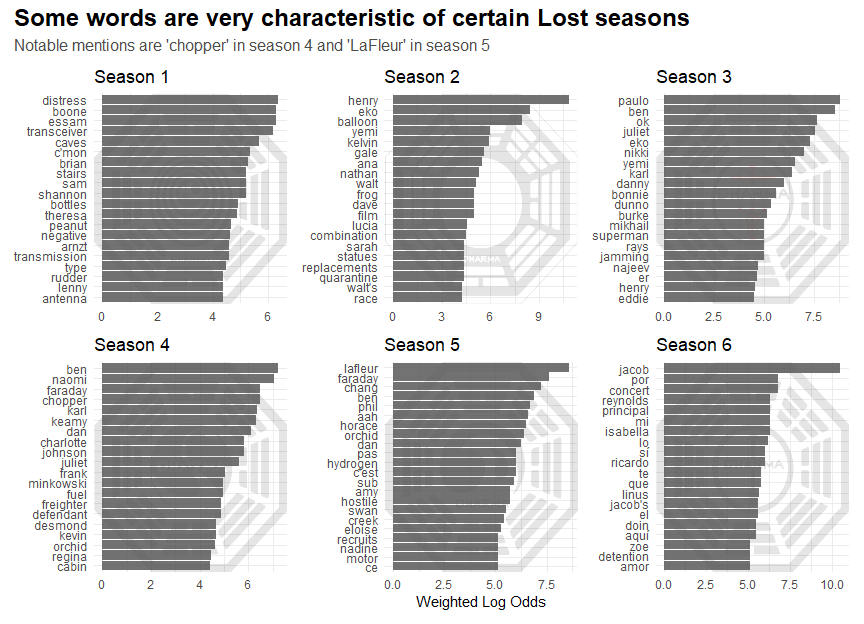
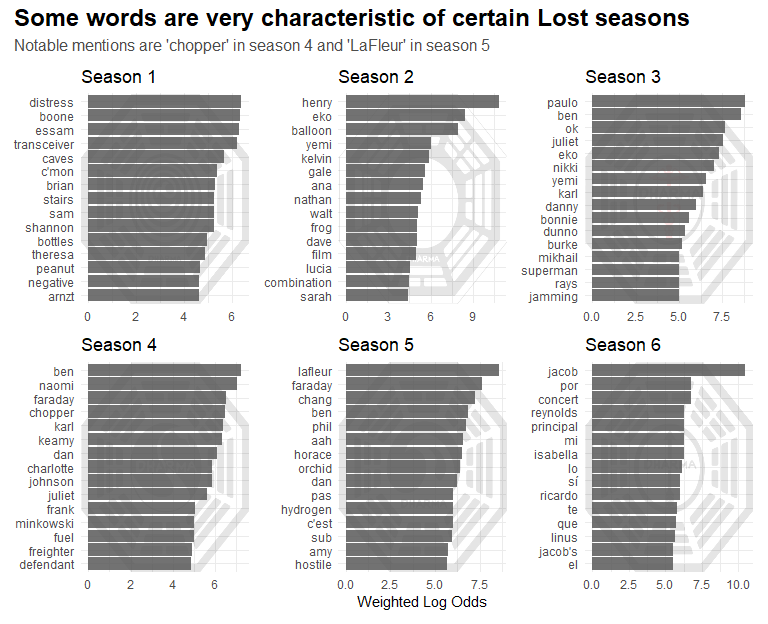
resize plots

diff --git a/README.md b/README.md
@@ -155,7 +155,7 @@ plot_4_data <- lost %>%
     count(season, word, sort = TRUE) %>%
     bind_log_odds(season, word, n) %>%
     group_by(season) %>%
-    slice_max(log_odds_weighted, n = 20) %>%
+    slice_max(log_odds_weighted, n = 15) %>%
     ungroup() %>%
     mutate(season = glue("Season {season}"))
 
